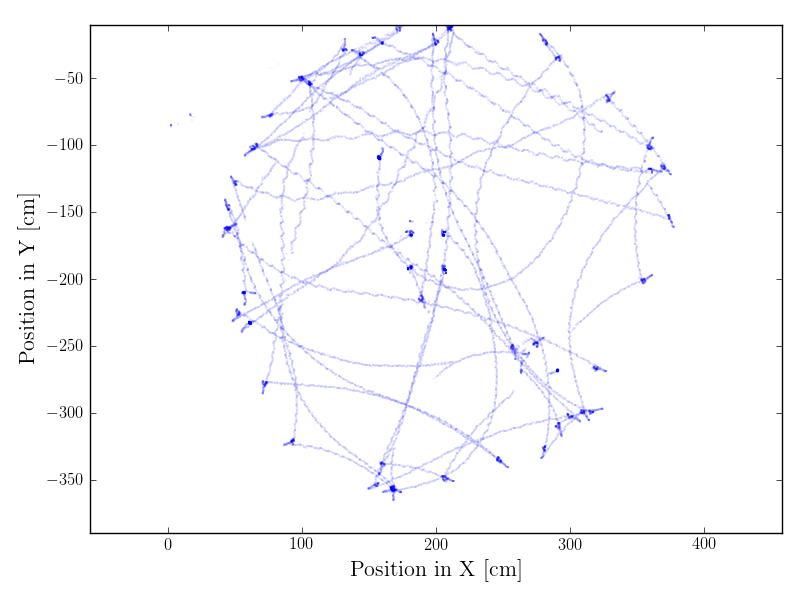
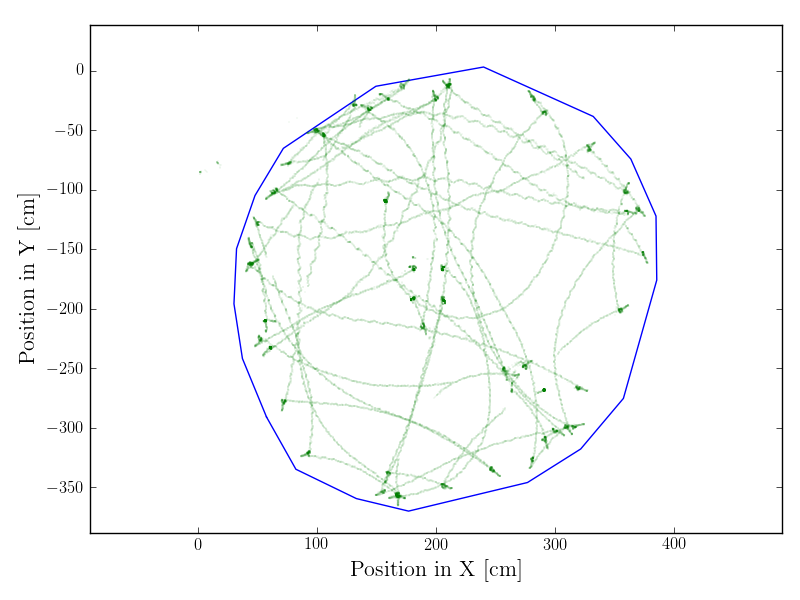
Added map walls to plots

diff --git a/Software/MarkerTracker/PerspectiveCorrection/experiments/GNBotSearch2014/plot_results.py b/Software/MarkerTracker/PerspectiveCorrection/experiments/GNBotSearch2014/plot_results.py
@@ -23,12 +23,19 @@ ts = data['videoTimestamp']
 posX = data['posX']
 posY = data['posY']
 
+
+map_points = loadFromFile("",data_file_name+"map_data.p")
+map_points = np.vstack((map_points,map_points[0,:])) # Convert to closed curve
+
 figure()
-plot(posX, posY,'.b',ms=0.1)
+plot(map_points[:,0], map_points[:,1], 'b')
+plot(posX, posY,'.g', ms=0.1)
 xlabel('Position in X [cm]', fontsize=16)
 ylabel('Position in Y [cm]', fontsize=16)
 axis('equal')
-tight_layout()
+xlim([-10,410])
+ylim([-410,10])
+#tight_layout()
 savefig(data_file_name+"position_log.png")
 
 

diff --git a/Software/MarkerTracker/PerspectiveCorrection/experiments/GNBotSearch2014/samePerspective/plot_results.py b/Software/MarkerTracker/PerspectiveCorrection/experiments/GNBotSearch2014/samePerspective/plot_results.py
@@ -23,12 +23,19 @@ ts = data['videoTimestamp']
 posX = data['posX']
 posY = data['posY']
 
+
+map_points = loadFromFile("",data_file_name+"map_data.p")
+map_points = np.vstack((map_points,map_points[0,:])) # Convert to closed curve
+
 figure()
-plot(posX, posY,'.b',ms=0.1)
+plot(map_points[:,0], map_points[:,1], 'b')
+plot(posX, posY,'.g', ms=0.1)
 xlabel('Position in X [cm]', fontsize=16)
 ylabel('Position in Y [cm]', fontsize=16)
 axis('equal')
-tight_layout()
+xlim([-10,410])
+ylim([-410,10])
+#tight_layout()
 savefig(data_file_name+"position_log.png")
 
 

diff --git a/Software/MarkerTracker/PerspectiveCorrection/experiments/GNBotSearch2015/plot_results.py b/Software/MarkerTracker/PerspectiveCorrection/experiments/GNBotSearch2015/plot_results.py
@@ -23,12 +23,19 @@ ts = data['videoTimestamp']
 posX = data['posX']
 posY = data['posY']
 
+
+map_points = loadFromFile("",data_file_name+"map_data.p")
+map_points = np.vstack((map_points,map_points[0,:])) # Convert to closed curve
+
 figure()
-plot(posX, posY,'.b',ms=0.1)
+plot(map_points[:,0], map_points[:,1], 'b')
+plot(posX, posY,'.g', ms=0.1)
 xlabel('Position in X [cm]', fontsize=16)
 ylabel('Position in Y [cm]', fontsize=16)
 axis('equal')
-tight_layout()
+xlim([-10,410])
+ylim([-410,10])
+#tight_layout()
 savefig(data_file_name+"position_log.png")
 
 

diff --git a/Software/MarkerTracker/PerspectiveCorrection/experiments/WallBounce/plot_results.py b/Software/MarkerTracker/PerspectiveCorrection/experiments/WallBounce/plot_results.py
@@ -23,12 +23,19 @@ ts = data['videoTimestamp']
 posX = data['posX']
 posY = data['posY']
 
+
+map_points = loadFromFile("",data_file_name+"map_data.p")
+map_points = np.vstack((map_points,map_points[0,:])) # Convert to closed curve
+
 figure()
-plot(posX, posY,'.b',ms=0.1)
+plot(map_points[:,0], map_points[:,1], 'b')
+plot(posX, posY,'.g', ms=0.1)
 xlabel('Position in X [cm]', fontsize=16)
 ylabel('Position in Y [cm]', fontsize=16)
 axis('equal')
-tight_layout()
+xlim([-10,410])
+ylim([-410,10])
+#tight_layout()
 savefig(data_file_name+"position_log.png")
 
 

diff --git a/Software/MarkerTracker/PerspectiveCorrection/experiments/GNBotSearch2014/samePerspective/get_map_walls.py b/Software/MarkerTracker/PerspectiveCorrection/experiments/GNBotSearch2014/samePerspective/get_map_walls.py
@@ -6,7 +6,7 @@ import cv2
 import numpy as np
 import time
 
-data_file_name = "2014-09-25-191650"
+data_file_name = "2014-09-24-172105"
 
 capture = cv2.VideoCapture(data_file_name+".webm")
 

diff --git a/Software/MarkerTracker/PerspectiveCorrection/experiments/GNBotSearch2015/get_map_walls.py b/Software/MarkerTracker/PerspectiveCorrection/experiments/GNBotSearch2015/get_map_walls.py
@@ -6,7 +6,7 @@ import cv2
 import numpy as np
 import time
 
-data_file_name = "2014-09-25-191650"
+data_file_name = "2015-08-07-183501"
 
 capture = cv2.VideoCapture(data_file_name+".webm")
 

diff --git a/Software/MarkerTracker/PerspectiveCorrection/experiments/WallBounce/get_map_walls.py b/Software/MarkerTracker/PerspectiveCorrection/experiments/WallBounce/get_map_walls.py
@@ -6,7 +6,7 @@ import cv2
 import numpy as np
 import time
 
-data_file_name = "2014-09-25-191650"
+data_file_name = "2015-08-07-183814"
 
 capture = cv2.VideoCapture(data_file_name+".webm")
 
